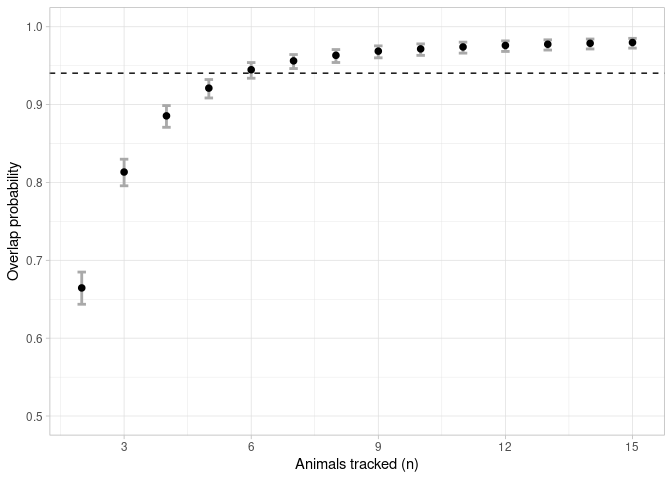
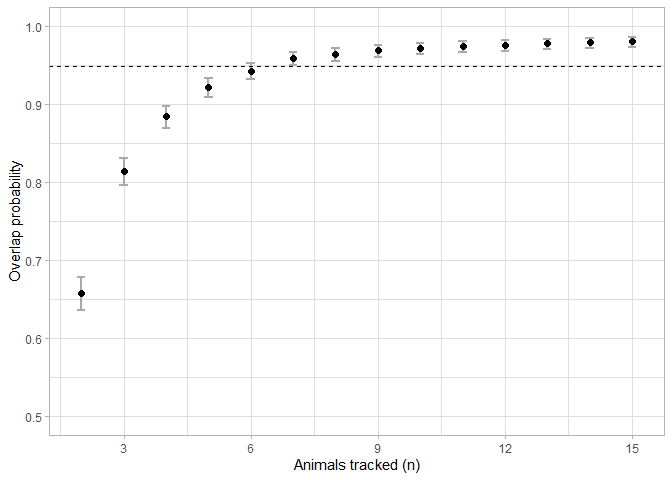
Ver 2.3.4 update #3

diff --git a/README.md b/README.md
@@ -32,9 +32,9 @@ library(SDLfilter)
 
 There are three main filtering functions.
 
--   *dupfilter* filters temporal and spatial duplicates.  
--   *ddfilter* filters locations with high error.  
--   *depthfilter* filters locations by water depth.
+- *dupfilter* filters temporal and spatial duplicates.  
+- *ddfilter* filters locations with high error.  
+- *depthfilter* filters locations by water depth.
 
 <!-- <p>&nbsp;</p> -->
 
@@ -248,4 +248,4 @@ Evol* 12(2):288-297 doi:
 
 ## Current version
 
-Version 2.3.3 (2023-11-07)
+Version 2.3.4 (2026-11-26)
